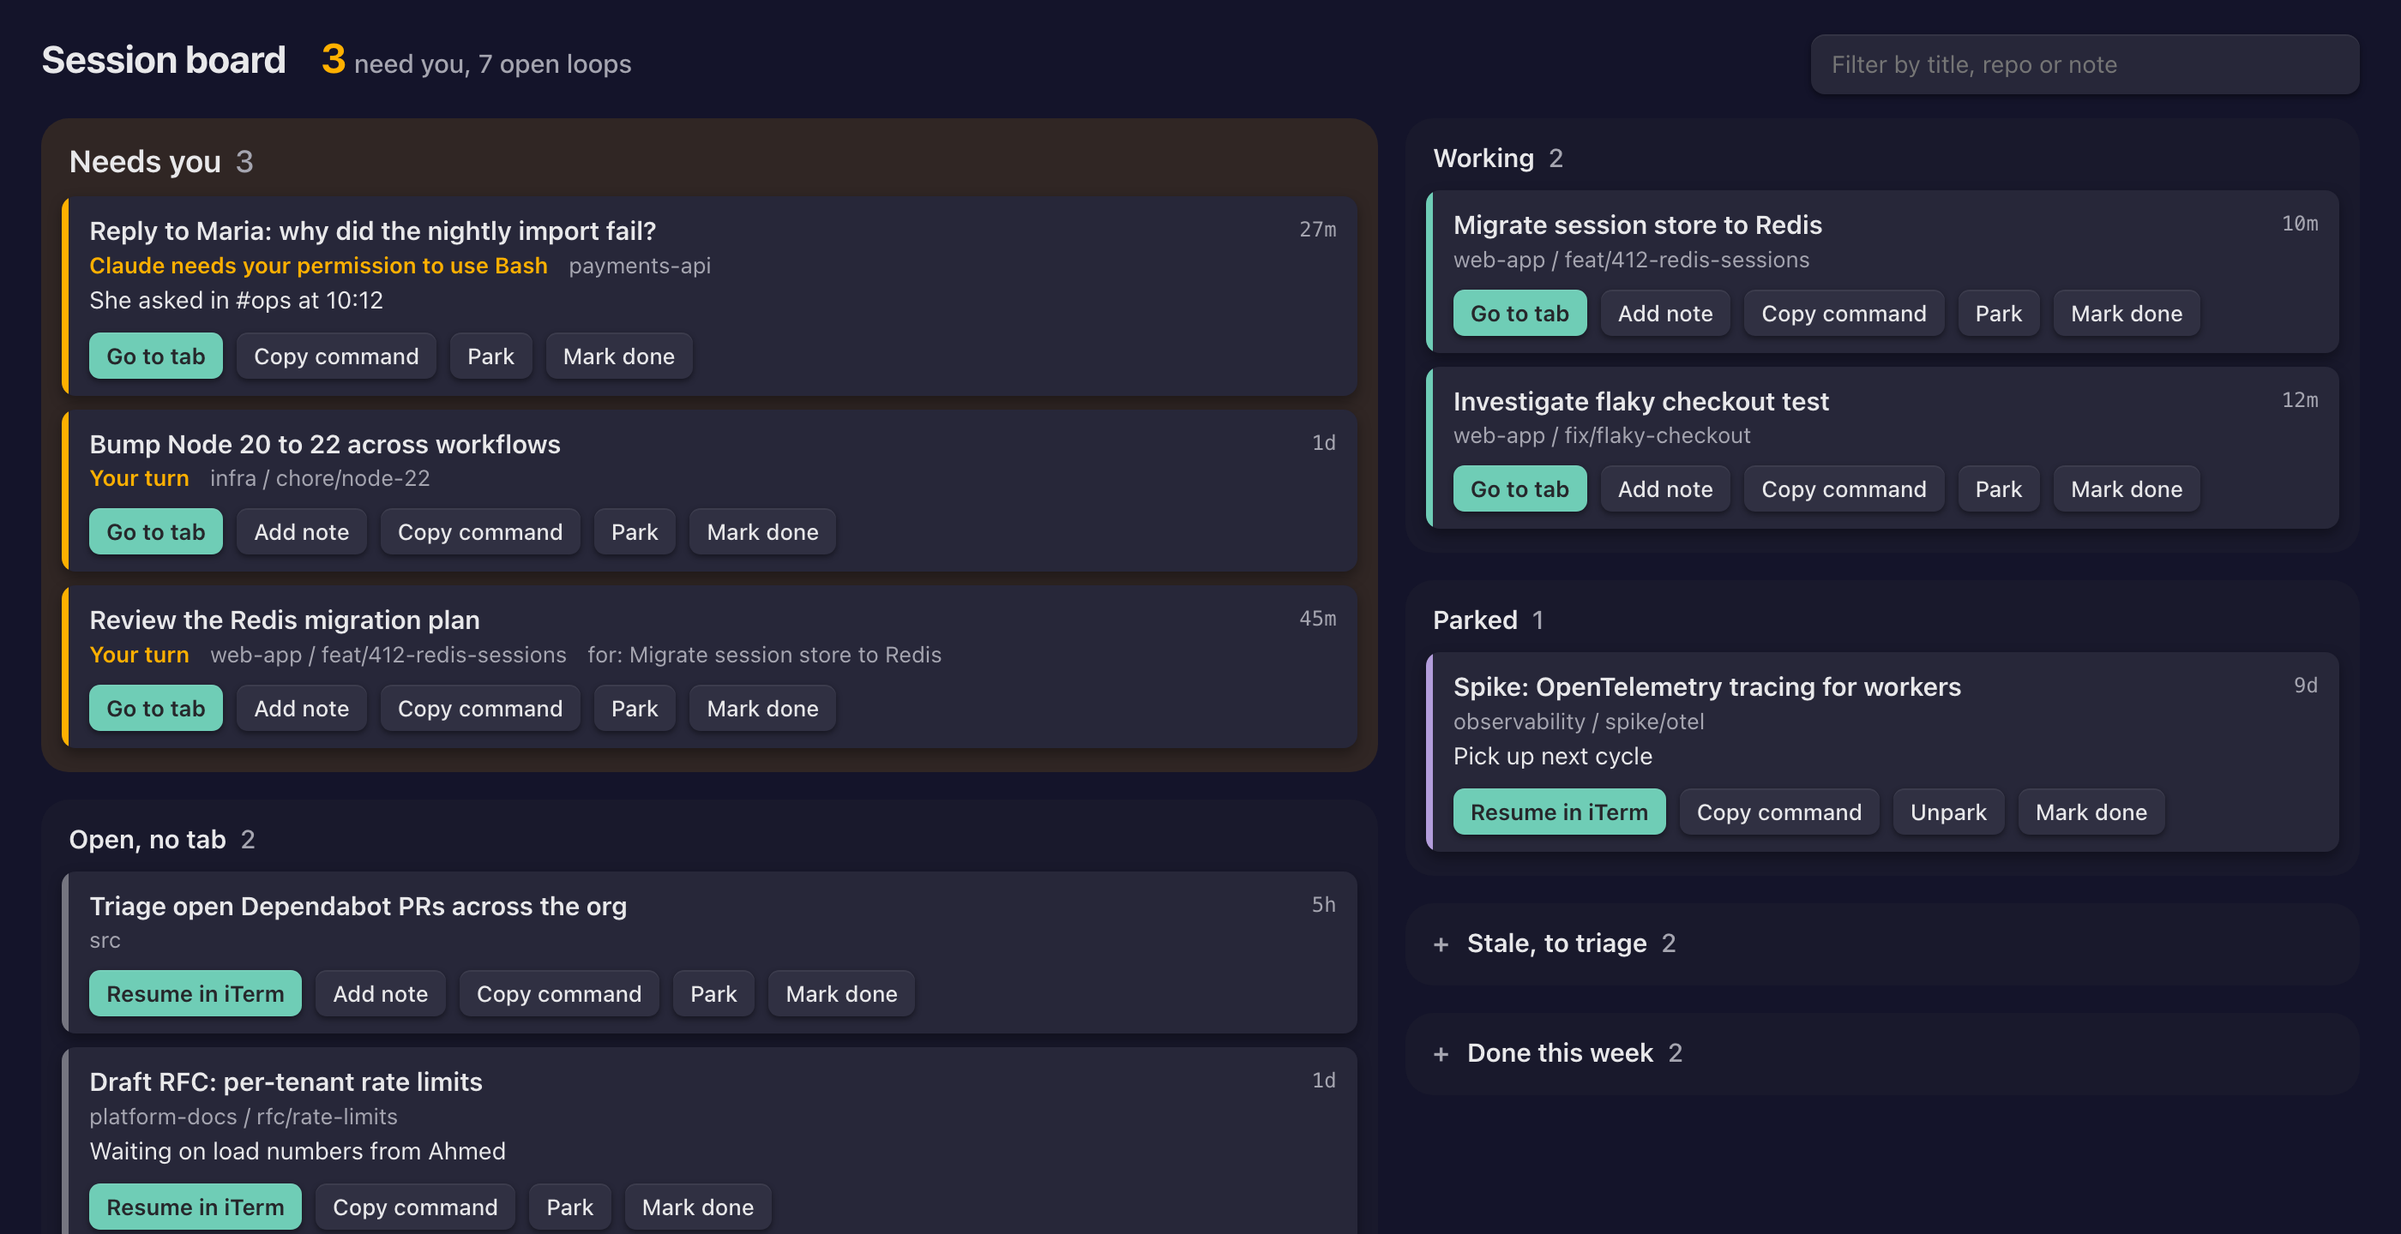
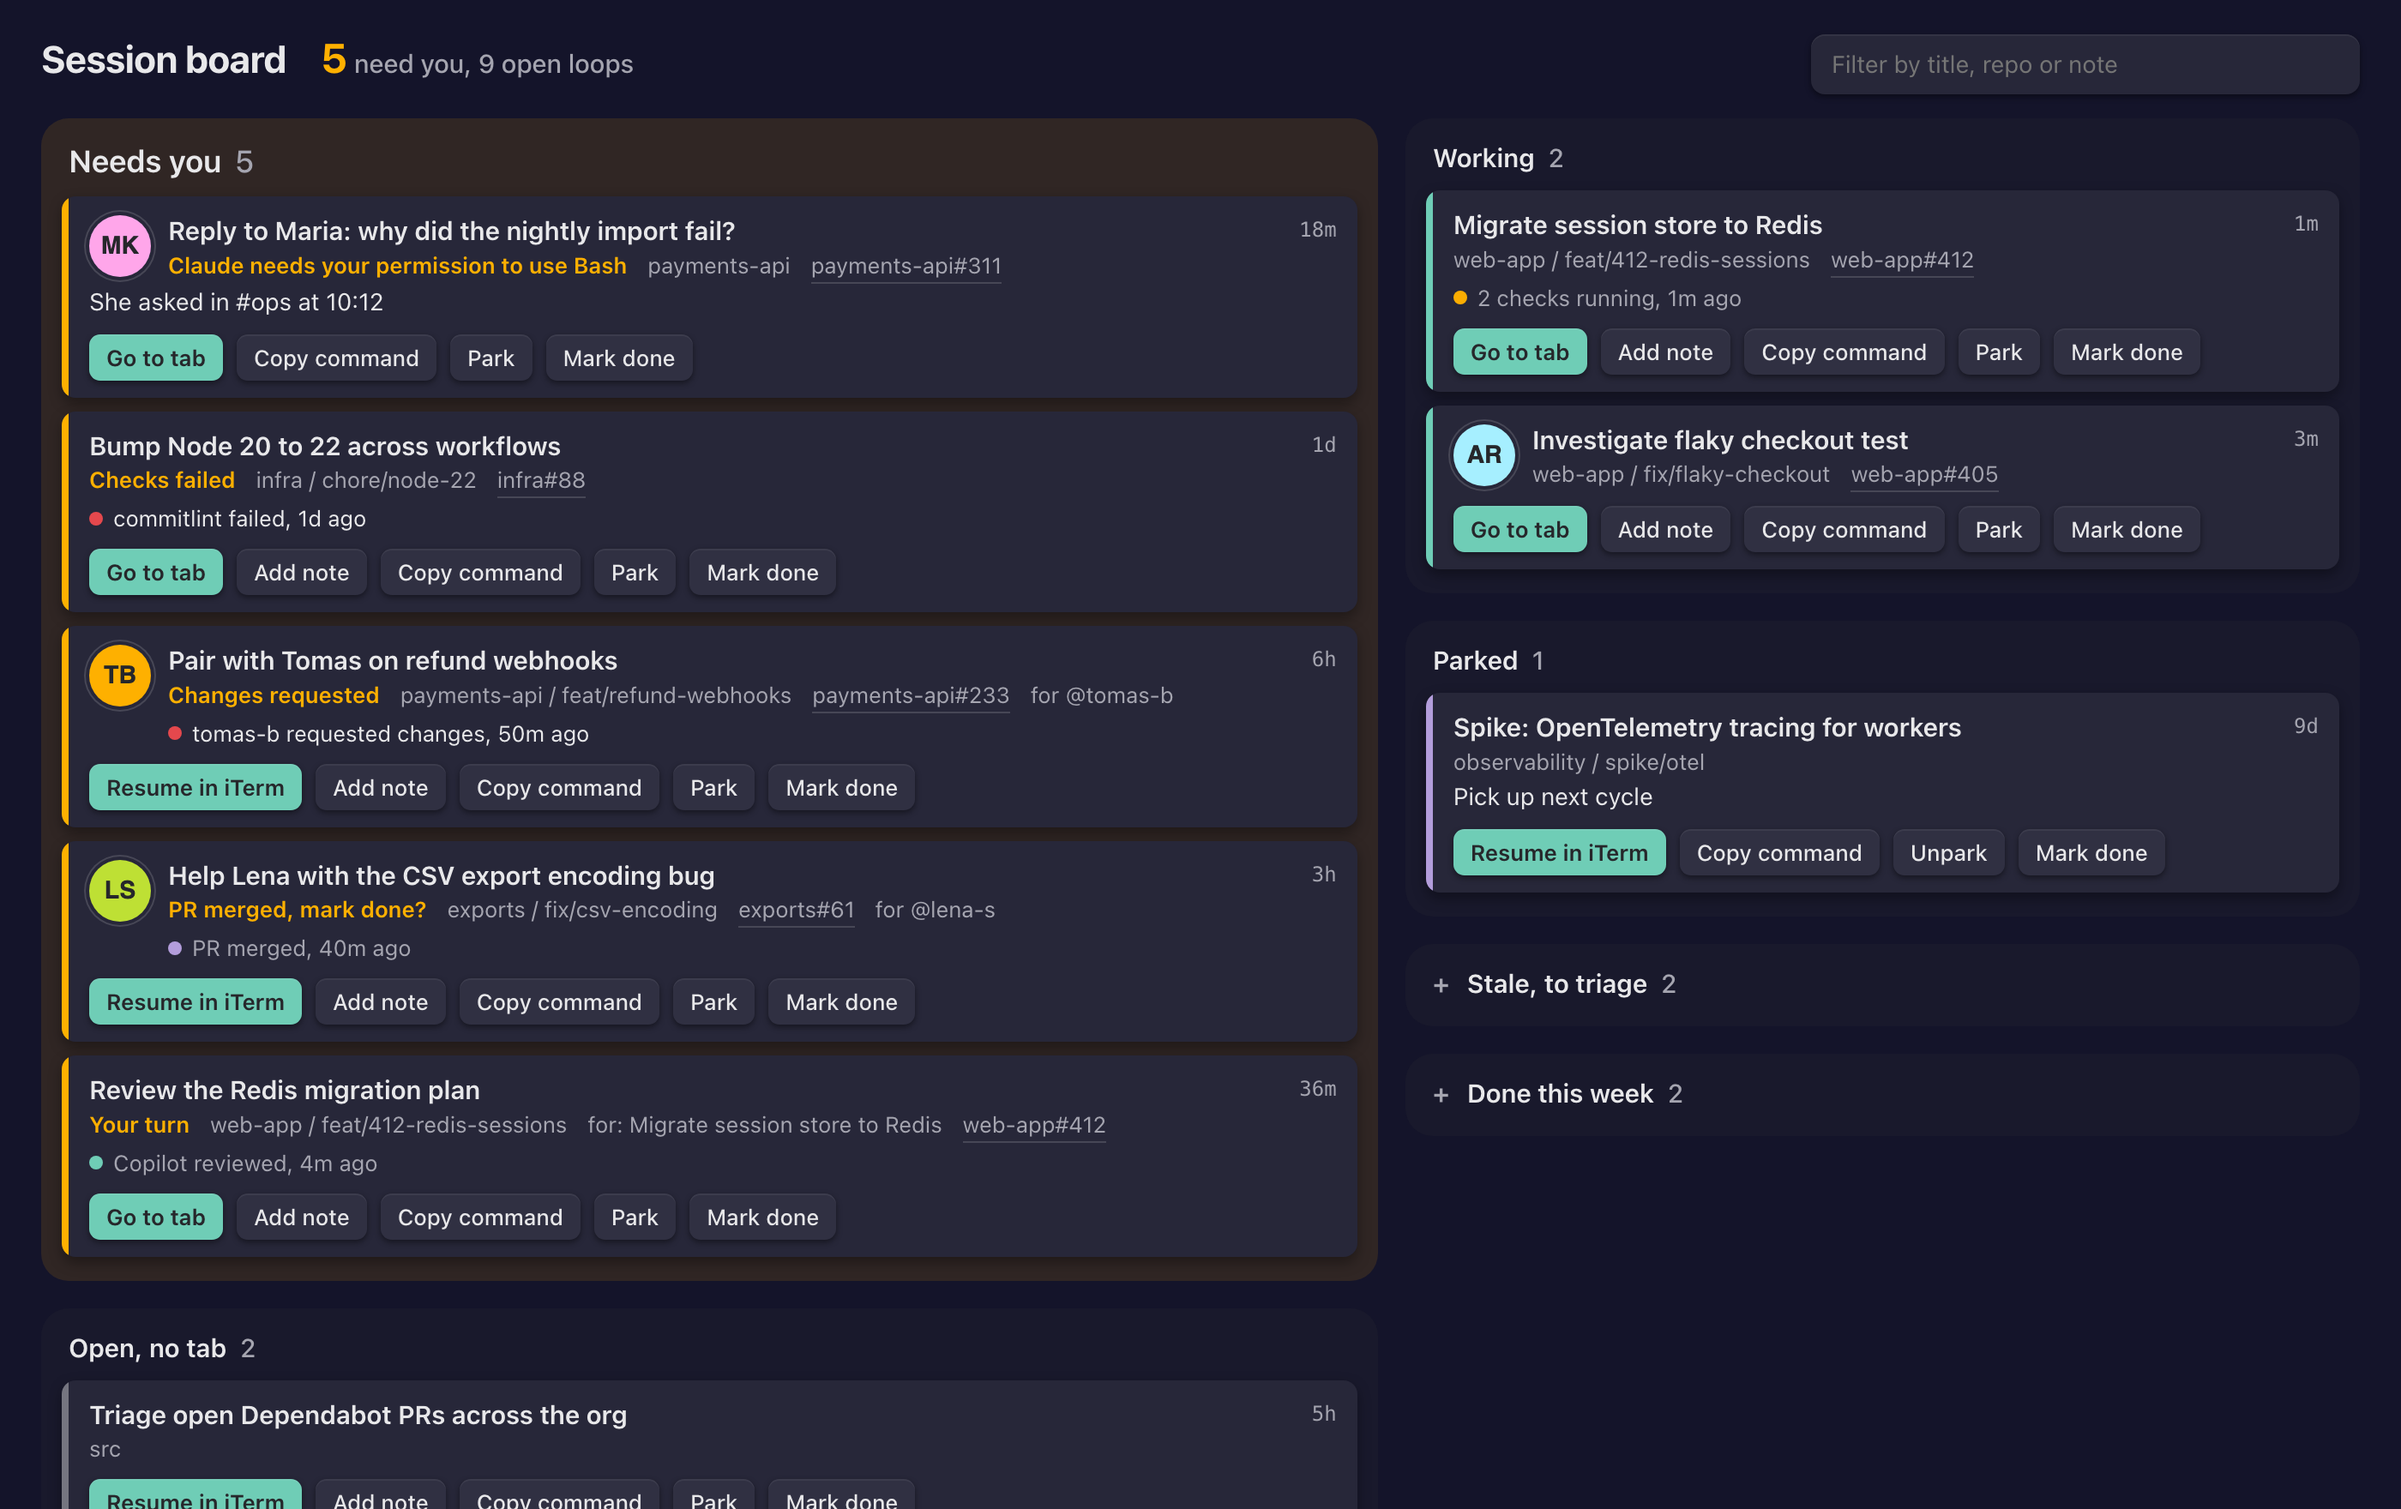
docs: add menu bar screenshot and pr status to readme

diff --git a/README.md b/README.md
@@ -19,8 +19,11 @@ With cc-hud, closing a tab and finishing the work are two different things. I cl
 - **Go to tab** brings the iTerm tab of a live session to the front. **Resume in iTerm** opens a closed session in a new tab, in the right folder.
 - **A menu bar item** (SwiftBar) with the number of sessions that need you. Click a session to jump to it.
 - **A Slack digest** twice a day. It lists sessions waiting on you for over an hour, and open sessions untouched for a day. A board you have to remember to open fails the same way idle tabs do, so this one comes to you.
+- **PR status on each session.** A session's strip shows the last thing that happened on its pull request: `commitlint failed, 5m ago`, `2 checks running`, `Copilot reviewed, 1m ago`. Claude Code records which PRs a session opened or pushed to, so this works without any setup in your sessions. When a closed tab's PR goes red, gets changes requested or is merged, the session moves to Needs you. A merged PR asks whether you want to mark the session done.
 - **Faces of the people you're helping.** When a session is about a GitHub PR or issue, its strip shows the avatar of whoever opened it and links to it. Your own PRs show an assignee instead, or no face.
 - **`/done`** inside any session marks it done. `/done park back next cycle` parks it with a note. Typing in a done or parked session reopens it.
+
+<img alt="The menu bar item open: five sessions under Needs you, two under Working and two under Open, no tab" src="docs/menubar.png" width="460">
 
 Claude Code's own `claude agents` shows what is live right now. cc-hud remembers the rest: closing a tab or rebooting only moves a session to "Open, no tab".
 
@@ -38,7 +41,7 @@ claude agents --json (every 60s) ----+
 
 The board loads nothing from the internet. Two things do leave your machine:
 
-- The snapshot job asks the GitHub API, through your own `gh` login, who opened each PR or issue your sessions link to, and downloads their avatar once into `~/.claude/hud/avatars/`.
+- The snapshot job asks the GitHub API, through your own `gh` login, who opened each PR or issue your sessions link to, and downloads their avatar once into `~/.claude/hud/avatars/`. It also polls the state of those PRs: one GraphQL request a minute at most, covering only open sessions, and less often for sessions you haven't touched in two days.
 - The optional digest goes to your own Slack webhook. It contains session titles, repo folder names and ages, never prompt text.
 
 ## Requirements
@@ -46,7 +49,7 @@ The board loads nothing from the internet. Two things do leave your machine:
 - macOS and iTerm2. Resume and Go to tab use iTerm's AppleScript API.
 - A Claude Code version that has `claude agents --json`.
 - `uv`, `jq` and `sqlite3`.
-- Optional: [SwiftBar](https://github.com/swiftbar/SwiftBar) for the menu bar item, an authenticated [`gh`](https://cli.github.com) for avatars, and a Slack incoming webhook for the digest.
+- Optional: [SwiftBar](https://github.com/swiftbar/SwiftBar) for the menu bar item, an authenticated [`gh`](https://cli.github.com) for avatars and PR status, and a Slack incoming webhook for the digest.
 
 ## Install
 
